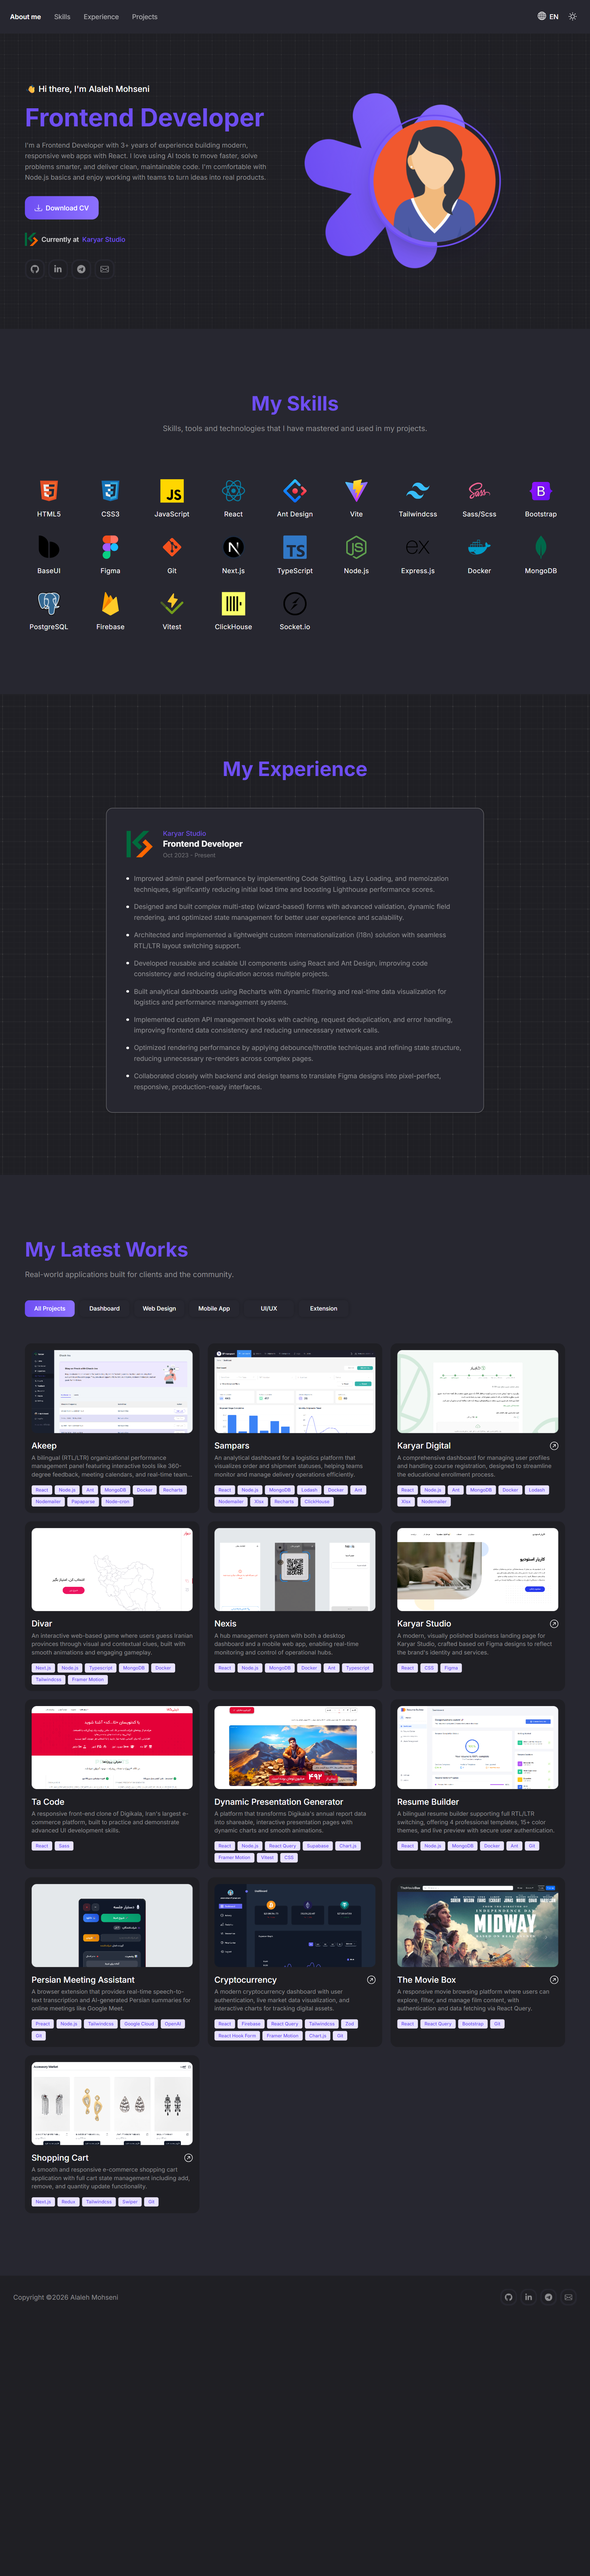
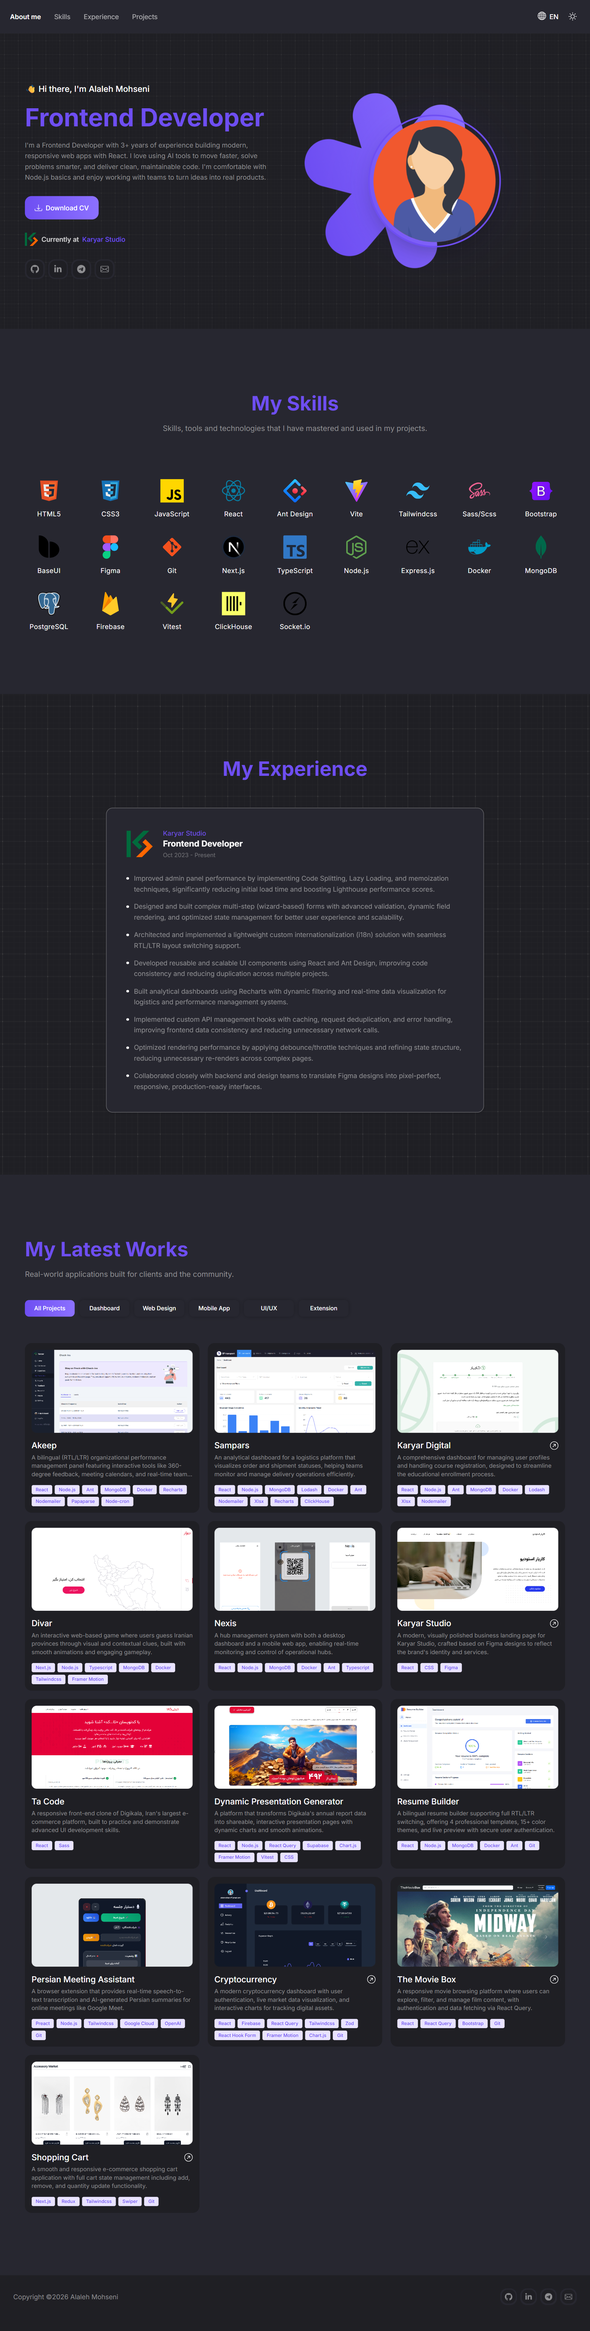
Update README.md file

diff --git a/README.md b/README.md
@@ -208,7 +208,3 @@ This project is open source and available under the MIT License.
 ---
 
 **Made with ❤ by Alaleh Mohseni**
-
-```
-
-```
